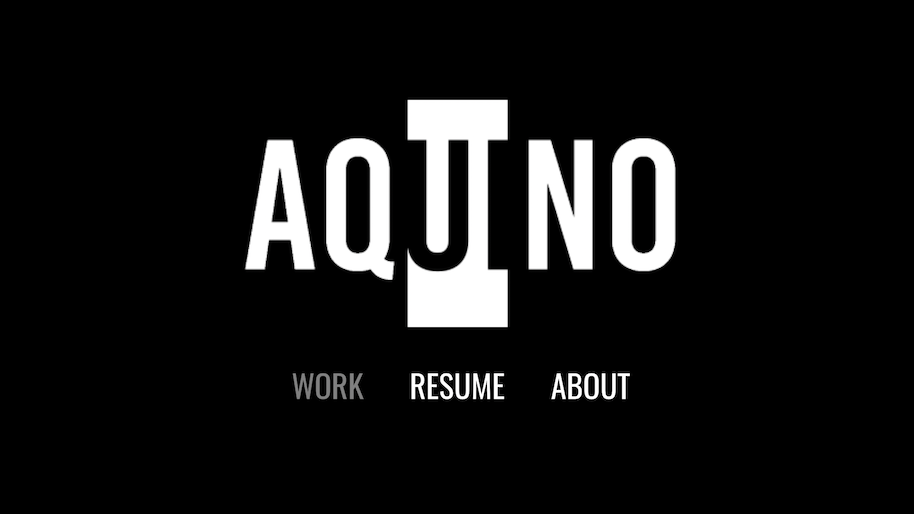
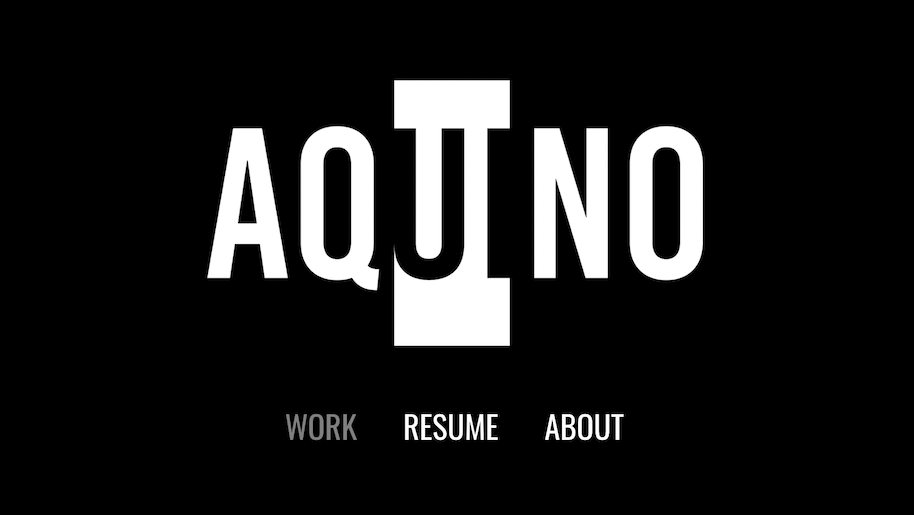
you already know

diff --git a/index.html b/index.html
@@ -131,7 +131,8 @@
           <li id="project">Quasar</li>
           <li id="tag">React</li>
           <li id="tag">Figma</li>
-          <li id="tag">Tailwind UI</li>
+          <li id="tag">Tailwind</li>
+          <li id="tag">HackGT 8</li>
           <li id="tag">Winner - NCR ML Challenge 2021</li>
         </ul>
       </div>
@@ -155,23 +156,6 @@
         </ul>
       </div>
 
-      <!--meditation-->
-      <a
-        href="https://www.youtube.com/watch?v=Y5GlGkBBAQ0&ab_channel=jorge"
-        target="_blank"
-        id="meditation"
-        class="project"
-      >
-        <img src="/images/meditation.png" />
-      </a>
-      <div class="tags" id="meditation">
-        <ul>
-          <li id="project">Meditation - Short Film</li>
-          <li id="tag">Cinematography</li>
-          <li id="tag">Video Editing</li>
-          <li id="tag">Avant Garde Horror</li>
-        </ul>
-      </div>
 
       <!--research-->
       <a
@@ -192,6 +176,26 @@
           <li id="tag">Cognitive Psychology</li>
         </ul>
       </div>
+
+
+      <!--meditation-->
+      <a
+        href="https://www.youtube.com/watch?v=Y5GlGkBBAQ0&ab_channel=jorge"
+        target="_blank"
+        id="meditation"
+        class="project"
+      >
+        <img src="/images/meditation.png" />
+      </a>
+      <div class="tags" id="meditation">
+        <ul>
+          <li id="project">Meditation - Short Film</li>
+          <li id="tag">Cinematography</li>
+          <li id="tag">Video Editing</li>
+          <li id="tag">Avant Garde Horror</li>
+        </ul>
+      </div>
+
 
       <!--trendylocations-->
       <a
@@ -220,6 +224,7 @@
           <li id="project">Portfolio</li>
           <li id="tag">HTML</li>
           <li id="tag">CSS</li>
+          <li id="tag">JS</li>
           <li id="tag">GitHub Pages</li>
           <li id="tag">Netlify</li>
         </ul>

diff --git a/styles.css b/styles.css
@@ -57,7 +57,7 @@ header {
 }
 
 header a img {
-  max-width: 500px;
+  max-width: 450px;
   transition: .1s ease-in-out;
   position: sticky;
 }
